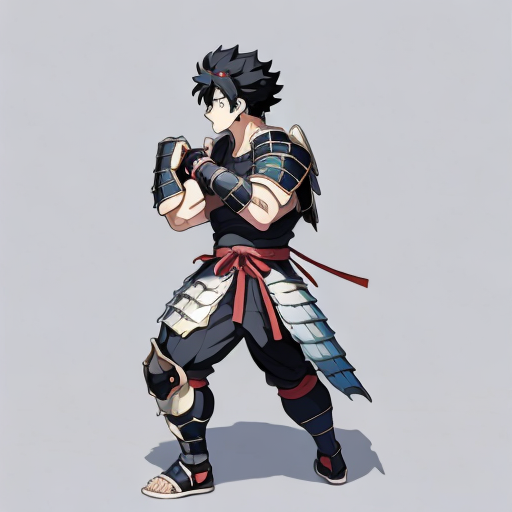
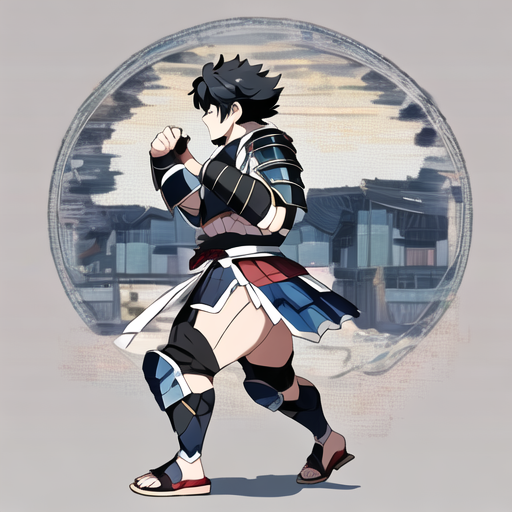
messed with prompts and add func to wanpipeline Changed infer and train models removed clip filter phase

diff --git a/wanpipeline.py b/wanpipeline.py
@@ -134,123 +134,121 @@ out_dir = "raw_frames"
 
 os.makedirs(out_dir, exist_ok=True)
 
-
-print("Starting generation")
-frames = pipe(
-    image=fimg,
-    # last_image=limg,
-    prompt="Character is standing in front of ocean shoreline. The character begin to run forward from the very begining of the video. The background is initially flashed by camera light, then it become clear shoreline and ocean become  visible. Camera is smoothly moving after him and is able to capture him fully all the time. Each frame is an animation masterpiece",
+def generate_sequence(
+    pipe,
+    image,
+    prompt,
     negative_prompt="",
-    num_inference_steps=6,
+    num_inference_steps=4,
     guidance_scale=1.0,
     num_frames=81,
     height=768,
     width=768,
-).frames[0]
+    out_dir="frames",
+    video_path="videos/output.mp4",
+    frame_offset=0,
+    fps=16
+):
+    print(f"Starting generation: {prompt[:50]}...")  # short preview of prompt
 
-os.makedirs("./videos/", exist_ok=True)
+    frames = pipe(
+        image=image,
+        prompt=prompt,
+        negative_prompt=negative_prompt,
+        num_inference_steps=num_inference_steps,
+        guidance_scale=guidance_scale,
+        num_frames=num_frames,
+        height=height,
+        width=width,
+    ).frames[0]
 
-export_to_video(frames, "videos/output1.mp4", fps=16)
+    for i, im in enumerate(frames):
+        to_pil(im).save(os.path.join(out_dir, f"frame_{frame_offset + i + 1:03d}.png"))
 
-last_im_number = 81 * 1
+    export_to_video(frames, video_path, fps=fps)
+    print(f"Video saved: {video_path}")
 
-for i, im in enumerate(frames):
-    to_pil(im).save(os.path.join(out_dir, f"frame_{last_im_number + 1 + i:03d}.png"))
-
-print("Starting generation")
-frames = pipe(
+generate_sequence(
+    pipe=pipe,
     image=fimg,
-    # last_image=limg,
-    prompt="Character is standing in front of cyclorama on the tallest building in megapolis. The character begins to run to the left. Camera is slowly moving with the character capturing its sideview",
-    negative_prompt="",
-    num_inference_steps=6,
-    guidance_scale=1.0,
-    num_frames=81,
-    height=768,
-    width=768,
-).frames[0]
+    prompt="Character is preparing to run in front of ocean shoreline. The character begin to run forward from the very begining of the video. The background at the starting moment flashed by camera light, but it becomes clear very fast. Camera is smoothly moving after him and is able to capture him fully all the time. Each frame is an animation masterpiece",
+    frame_offset=81*1,
+    out_dir=out_dir,
+    video_path="videos/output1.mp4"
+)
 
-last_im_number = 81 * 2
-
-for i, im in enumerate(frames):
-    to_pil(im).save(os.path.join(out_dir, f"frame_{last_im_number + 1 + i:03d}.png"))
-
-export_to_video(frames, "videos/output2.mp4", fps=16)
-
-
-print("Starting generation")
-frames = pipe(
+generate_sequence(
+    pipe=pipe,
     image=fimg,
-    # last_image=limg,
+    prompt="The character is standing in front brick wall in a small town. The character begins to run to the left. The background at the starting moment flashed by camera light, but it becomes clear very fast and brick wall with the town become visible. Camera is slowly moving with the character capturing its sideview",
+    frame_offset=81*2,
+    out_dir=out_dir,
+    video_path="videos/output2.mp4"
+)
+
+generate_sequence(
+    pipe=pipe,
+    image=fimg,
     prompt="Character is standing in front of cyclorama at a boxing club. The character moves into a boxing stance and starts punching with his hands. Camera is focused on the character and slowly and smoothly moves towards and around it to capture his closes side view",
-    negative_prompt="",
-    num_inference_steps=6,
-    guidance_scale=1.0,
-    num_frames=81,
-    height=768,
-    width=768,
-).frames[0]
+    frame_offset=81*3,
+    out_dir=out_dir,
+    video_path="videos/output3.mp4"
+)
 
-last_im_number = 81 * 3
 
-for i, im in enumerate(frames):
-    to_pil(im).save(os.path.join(out_dir, f"frame_{last_im_number + 1 + i:03d}.png"))
-
-export_to_video(frames, "videos/output3.mp4", fps=16)
-
-print("Starting generation")
-frames = pipe(
+generate_sequence(
+    pipe=pipe,
     image=fimg,
-    prompt="Character is standing in front of cyclorama. The camera slowly and smoothly zooms in on the persona's face (no abrupt zoom), then in full-face so that the face, neck and chest are visible",
-    negative_prompt="",
-    num_inference_steps=6,
-    guidance_scale=1.0,
-    num_frames=81,
-    height=768,
-    width=768,
-).frames[0]
+    prompt="The character is standing in front brick wall in a small town. The camera slowly and smoothly zooms in on the persona's face (no abrupt zoom), then in full-face so that the face, neck and chest are visible",
+    frame_offset=81*4,
+    out_dir=out_dir,
+    video_path="videos/output4.mp4"
+)
 
-last_im_number = 81 * 4
 
-for i, im in enumerate(frames):
-    to_pil(im).save(os.path.join(out_dir, f"frame_{last_im_number + 1 + i:03d}.png"))
-
-export_to_video(frames, "videos/output4.mp4", fps=16)
-
-print("Starting generation")
-frames = pipe(
+generate_sequence(
+    pipe=pipe,
     image=fimg,
     prompt="Character stands in nature setting. It is talking and laughing and then becomes angry. The background is initially flashed by camera light, then it become clear and vibrant forest becomes visible. The camera slowly and smoothly zooms in on the persona's face from a side, neck and shoulder are visible and the camera stops on the character side view",
-    negative_prompt="",
-    num_inference_steps=6,
-    guidance_scale=1.0,
-    num_frames=81,
-    height=768,
-    width=768,
-).frames[0]
+    frame_offset=81*5,
+    out_dir=out_dir,
+    video_path="videos/output5.mp4"
+)
 
-last_im_number = 81 * 5
 
-for i, im in enumerate(frames):
-    to_pil(im).save(os.path.join(out_dir, f"frame_{last_im_number + 1 + i:03d}.png"))
-
-export_to_video(frames, "videos/output5.mp4", fps=16)
-
-print("Starting generation")
-frames = pipe(
+generate_sequence(
+    pipe=pipe,
     image=fimg,
     prompt="Character stands in town setting. Character begins to turn around from the start of the video. The background is initially flashed by camera light, then it become clear and vibrant and cozy town becomes visible. The camera slowly and smoothly zooms in on the persona's face (capturing back of his head with neck and shoulders with upper back at the end)",
-    negative_prompt="",
-    num_inference_steps=6,
-    guidance_scale=1.0,
-    num_frames=81,
-    height=768,
-    width=768,
-).frames[0]
+    frame_offset=81*6,
+    out_dir=out_dir,
+    video_path="videos/output6.mp4"
+)
 
-last_im_number = 81 * 6
 
-for i, im in enumerate(frames):
-    to_pil(im).save(os.path.join(out_dir, f"frame_{last_im_number + 1 + i:03d}.png"))
+generate_sequence(
+    pipe=pipe,
+    image=fimg,
+    prompt="Character is training in town setting. The character drops any items from his hands, jumps into fighting stance and begins to land professional roundhouse kicks. The background is initially flashed by camera light, then it become clear and vibrant and cozy town becomes visible. The camera slowly and smoothly goes around the character capturing first frontview of it fighting then sideview and backview",
+    frame_offset=81*7,
+    out_dir=out_dir,
+    video_path="videos/output7.mp4"
+)
 
-export_to_video(frames, "videos/output6.mp4", fps=16)
+generate_sequence(
+    pipe=pipe,
+    image=fimg,
+    prompt="Character stands in town setting. Character takes a chair and sits on it. The background is initially flashed by camera light, then it become clear and vibrant and cozy town becomes visible. The camera slowly and smoothly goes around the character capturing first frontview of it sitting and then sideview and then back view always capturing the character full height",
+    frame_offset=81*8,
+    out_dir=out_dir,
+    video_path="videos/output8.mp4"
+)
+
+generate_sequence(
+    pipe=pipe,
+    image=fimg,
+    prompt="Dynamic 3d anime style animation. Character is training in nature near a very high (around 50 meters tall) a waterfall cliff. The character drops any items from his hands and jumps off the cliff and free fall then lends right into the water near the waterfall. The background is initially flashed by camera light, then it become clear and vibrant and nature setting with waterfall appear clear and beautiful. The camera falls down with the character and rapidly circles around the character capturing first frontview then sideview and backview of the character always keeping the character occupying most of the frame",
+    frame_offset=81*9,
+    out_dir=out_dir,
+    video_path="videos/output9.mp4"
+)

diff --git a/infer_pose_lora.py b/infer_pose_lora.py
@@ -5,12 +5,12 @@ from diffusers import StableDiffusionControlNetPipeline, ControlNetModel, UniPCM
 from transformers import CLIPVisionModelWithProjection
 from diffusers.utils import load_image
 
-BASE_MODEL = "Lykon/dreamshaper-8"
+BASE_MODEL = "stablediffusionapi/anything-v5"
 CONTROLNET_ID = "lllyasviel/control_v11p_sd15_openpose"
 LORA_PATH = os.path.abspath(os.path.join(os.path.dirname(__file__), ".", "out_lora", "char_lora.safetensors"))
 POSES_DIR = os.path.abspath(os.path.join(os.path.dirname(__file__), "poses"))
 OUT_DIR = os.path.abspath(os.path.join(os.path.dirname(__file__), "outputs", "pose_lora"))
-PROMPT = "Ohwjfdk, man, short black hair, blue eyes, muscular build, samurai armor, absurdres, masterpiece, illustration anime art, top quality, (masterpiece)"
+PROMPT = "Ohwjfdk, man, short black hair, blue eyes, muscular build, samurai armor, running, absurdres, masterpiece, illustration anime art, correct anatomy, simple background"
 NEGATIVE = "worst quality, low quality, bad anatomy, bad hands, bad body, missing fingers, extra digit, three legs, three arms, fewer digits, blurry, text, watermark, lowres, bad anatomy, bad hands, extra fingers, missing fingers, deformed, detailed background, multiple characters"
 GUIDANCE = 4.0
 STEPS = 30
@@ -57,7 +57,7 @@ pipe.load_ip_adapter(
     
 # )
 
-pipe.set_ip_adapter_scale(0.8)
+pipe.set_ip_adapter_scale(0.5)
 
 
 pipe.safety_checker = None

diff --git a/preprocess_images_for_lora.py b/preprocess_images_for_lora.py
@@ -228,8 +228,7 @@ def select_frames_two_phase(
     # PickScore filtering (top 80%)
     filtered_paths = filter_by_pickscore(candidate_paths, keep_ratio=pickscore_ratio)
     # SigLIP negative prompt filtering (keep best 30%)
-    quality_filtered_paths = filter_by_siglip_negative_prompt(filtered_paths, keep_ratio=0.5)
-    filtered_candidates = [(idx, sp) for idx, sp in candidates if sp in set(quality_filtered_paths)]
+    filtered_candidates = [(idx, sp) for idx, sp in candidates if sp in set(filtered_paths)]
 
 
     # Stage 1: pHash near-dup prune while copying
